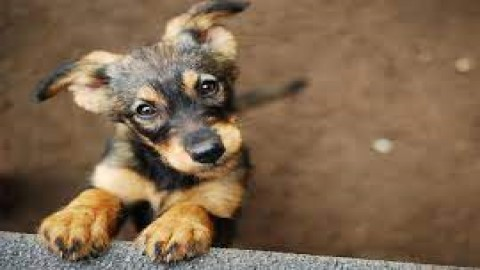
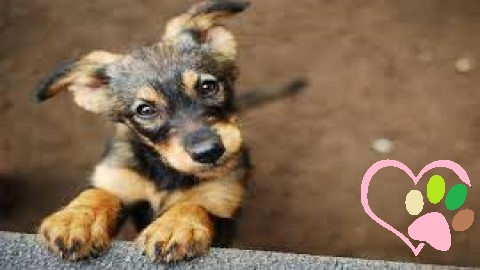
detalles imagenes

Changed region(s): [[0.75, 0.5926, 1.0, 0.9481]]

diff --git a/dog.html b/dog.html
@@ -64,7 +64,7 @@
         </div>
         <div class="col" id="separacion_card">
             <div class="card rounded mx-auto d-block" style="width: 30rem;">
-                <img src="img/perrito_02.jpg" class="card-img-top" alt="...">
+                <img src="img/perrito_02b.png" class="card-img-top" alt="...">
                 <div class="card-body">
                     <h5 class="card-title">Jacinta</h5>
                     <p class="card-text">Asustadiza pero muy tierna, ama a los niños y a otras mascotas..</p>
@@ -74,7 +74,7 @@
         </div>
         <div class="col" id="separacion_card">
             <div class="card rounded mx-auto d-block" style="width: 30rem;">
-                <img src="img/perrito_03.jpg" class="card-img-top" alt="...">
+                <img src="img/perrito_03b.png" class="card-img-top" alt="...">
                 <div class="card-body">
                     <h5 class="card-title">Alberto</h5>
                     <p class="card-text">Ama jugar con pelotas y morder todo lo que tiene en frente, necesita paciencia pero es muy amoroso.</p>
@@ -84,7 +84,7 @@
         </div>
         <div class="col" id="separacion_card">
             <div class="card rounded mx-auto d-block" style="width: 30rem;">
-                <img src="img/perrito_04_2.jpg" class="card-img-top" alt="...">
+                <img src="img/perrito_04_2b.png" class="card-img-top" alt="...">
                 <div class="card-body">
                     <h5 class="card-title">Pelusa</h5>
                     <p class="card-text">Nunca para de jugar y revolotear, es tierna y ama dormir.</p>
@@ -94,7 +94,7 @@
         </div>
         <div class="col" id="separacion_card">
             <div class="card rounded mx-auto d-block" style="width: 30rem;">
-                <img src="img/perrito_05.jpg" class="card-img-top" alt="...">
+                <img src="img/perrito_05b.png" class="card-img-top" alt="...">
                 <div class="card-body">
                     <h5 class="card-title">Robin</h5>
                     <p class="card-text">Perro con experiencia, muy agradecido, ama por sobre todas las cosas dormir.</p>
@@ -104,7 +104,7 @@
         </div>
         <div class="col" id="separacion_card">
             <div class="card rounded mx-auto d-block" style="width: 30rem;">
-                <img src="img/perrito_06.jpg" class="card-img-top" alt="...">
+                <img src="img/perrito_06b.png" class="card-img-top" alt="...">
                 <div class="card-body">
                     <h5 class="card-title">Chascas</h5>
                     <p class="card-text">Juguetón, alegre, bueno para comer, ama pasear.</p>

diff --git a/dog_3.html b/dog_3.html
@@ -54,7 +54,7 @@
     <div class="m-0 vh-50 row justify-content-center align-items-center" style="width: 50rem;">
         
             <div class="card" style="width: 200rem;">
-                <img src="img/perrito_03.jpg" class="card-img" alt="...">
+                <img src="img/perrito_03b.png" class="card-img" alt="...">
                 <div class="card-body">
                     <h5 class="card-title">Alberto</h5>
                     <p class="card-text">Ama jugar con pelotas y morder todo lo que tiene en frente, necesita paciencia pero es muy amoroso.</p>

diff --git a/dog_5.html b/dog_5.html
@@ -52,7 +52,7 @@
     <div class="m-0 vh-50 row justify-content-center align-items-center" style="width: 50rem;">
         
             <div class="card" style="width: 200rem;">
-                <img src="img/perrito_05.jpg" class="card-img" alt="...">
+                <img src="img/perrito_05b.png" class="card-img" alt="...">
                 <div class="card-body">
                     <h5 class="card-title">Robin</h5>
                     <p class="card-text">Perro con experiencia, muy agradecido, ama por sobre todas las cosas dormir</p>

diff --git a/dog_02.html b/dog_02.html
@@ -54,7 +54,7 @@
     <div class="m-0 vh-50 row justify-content-center align-items-center" style="width: 50rem;">
         
             <div class="card" style="width: 200rem;">
-                <img src="img/perrito_02.jpg" class="card-img" alt="...">
+                <img src="img/perrito_02b.png" class="card-img" alt="...">
                 <div class="card-body">
                     <h5 class="card-title">Jacinta</h5>
                     <p class="card-text">Asustadiza pero muy tierna, ama a los niños y a otras mascotas.</p>

diff --git a/dog_4.html b/dog_4.html
@@ -54,7 +54,7 @@
     <div class="m-0 vh-50 row justify-content-center align-items-center" style="width: 50rem;">
         
             <div class="card" style="width: 200rem;">
-                <img src="img/perrito_04.jpg" class="card-img" alt="...">
+                <img src="img/perrito_04b.png" class="card-img" alt="...">
                 <div class="card-body">
                     <h5 class="card-title">Pelusa</h5>
                     <p class="card-text">Nunca para de jugar y revolotear, es tierna y ama dormir.</p>

diff --git a/dog_6.html b/dog_6.html
@@ -54,7 +54,7 @@
     <div class="m-0 vh-50 row justify-content-center align-items-center" style="width: 50rem;">
         
             <div class="card" style="width: 200rem;">
-                <img src="img/perrito_06.jpg" class="card-img" alt="...">
+                <img src="img/perrito_06b.png" class="card-img" alt="...">
                 <div class="card-body">
                     <h5 class="card-title">Chascas</h5>
                     <p class="card-text">Juguetón, alegre, bueno para comer, ama pasear.</p>
